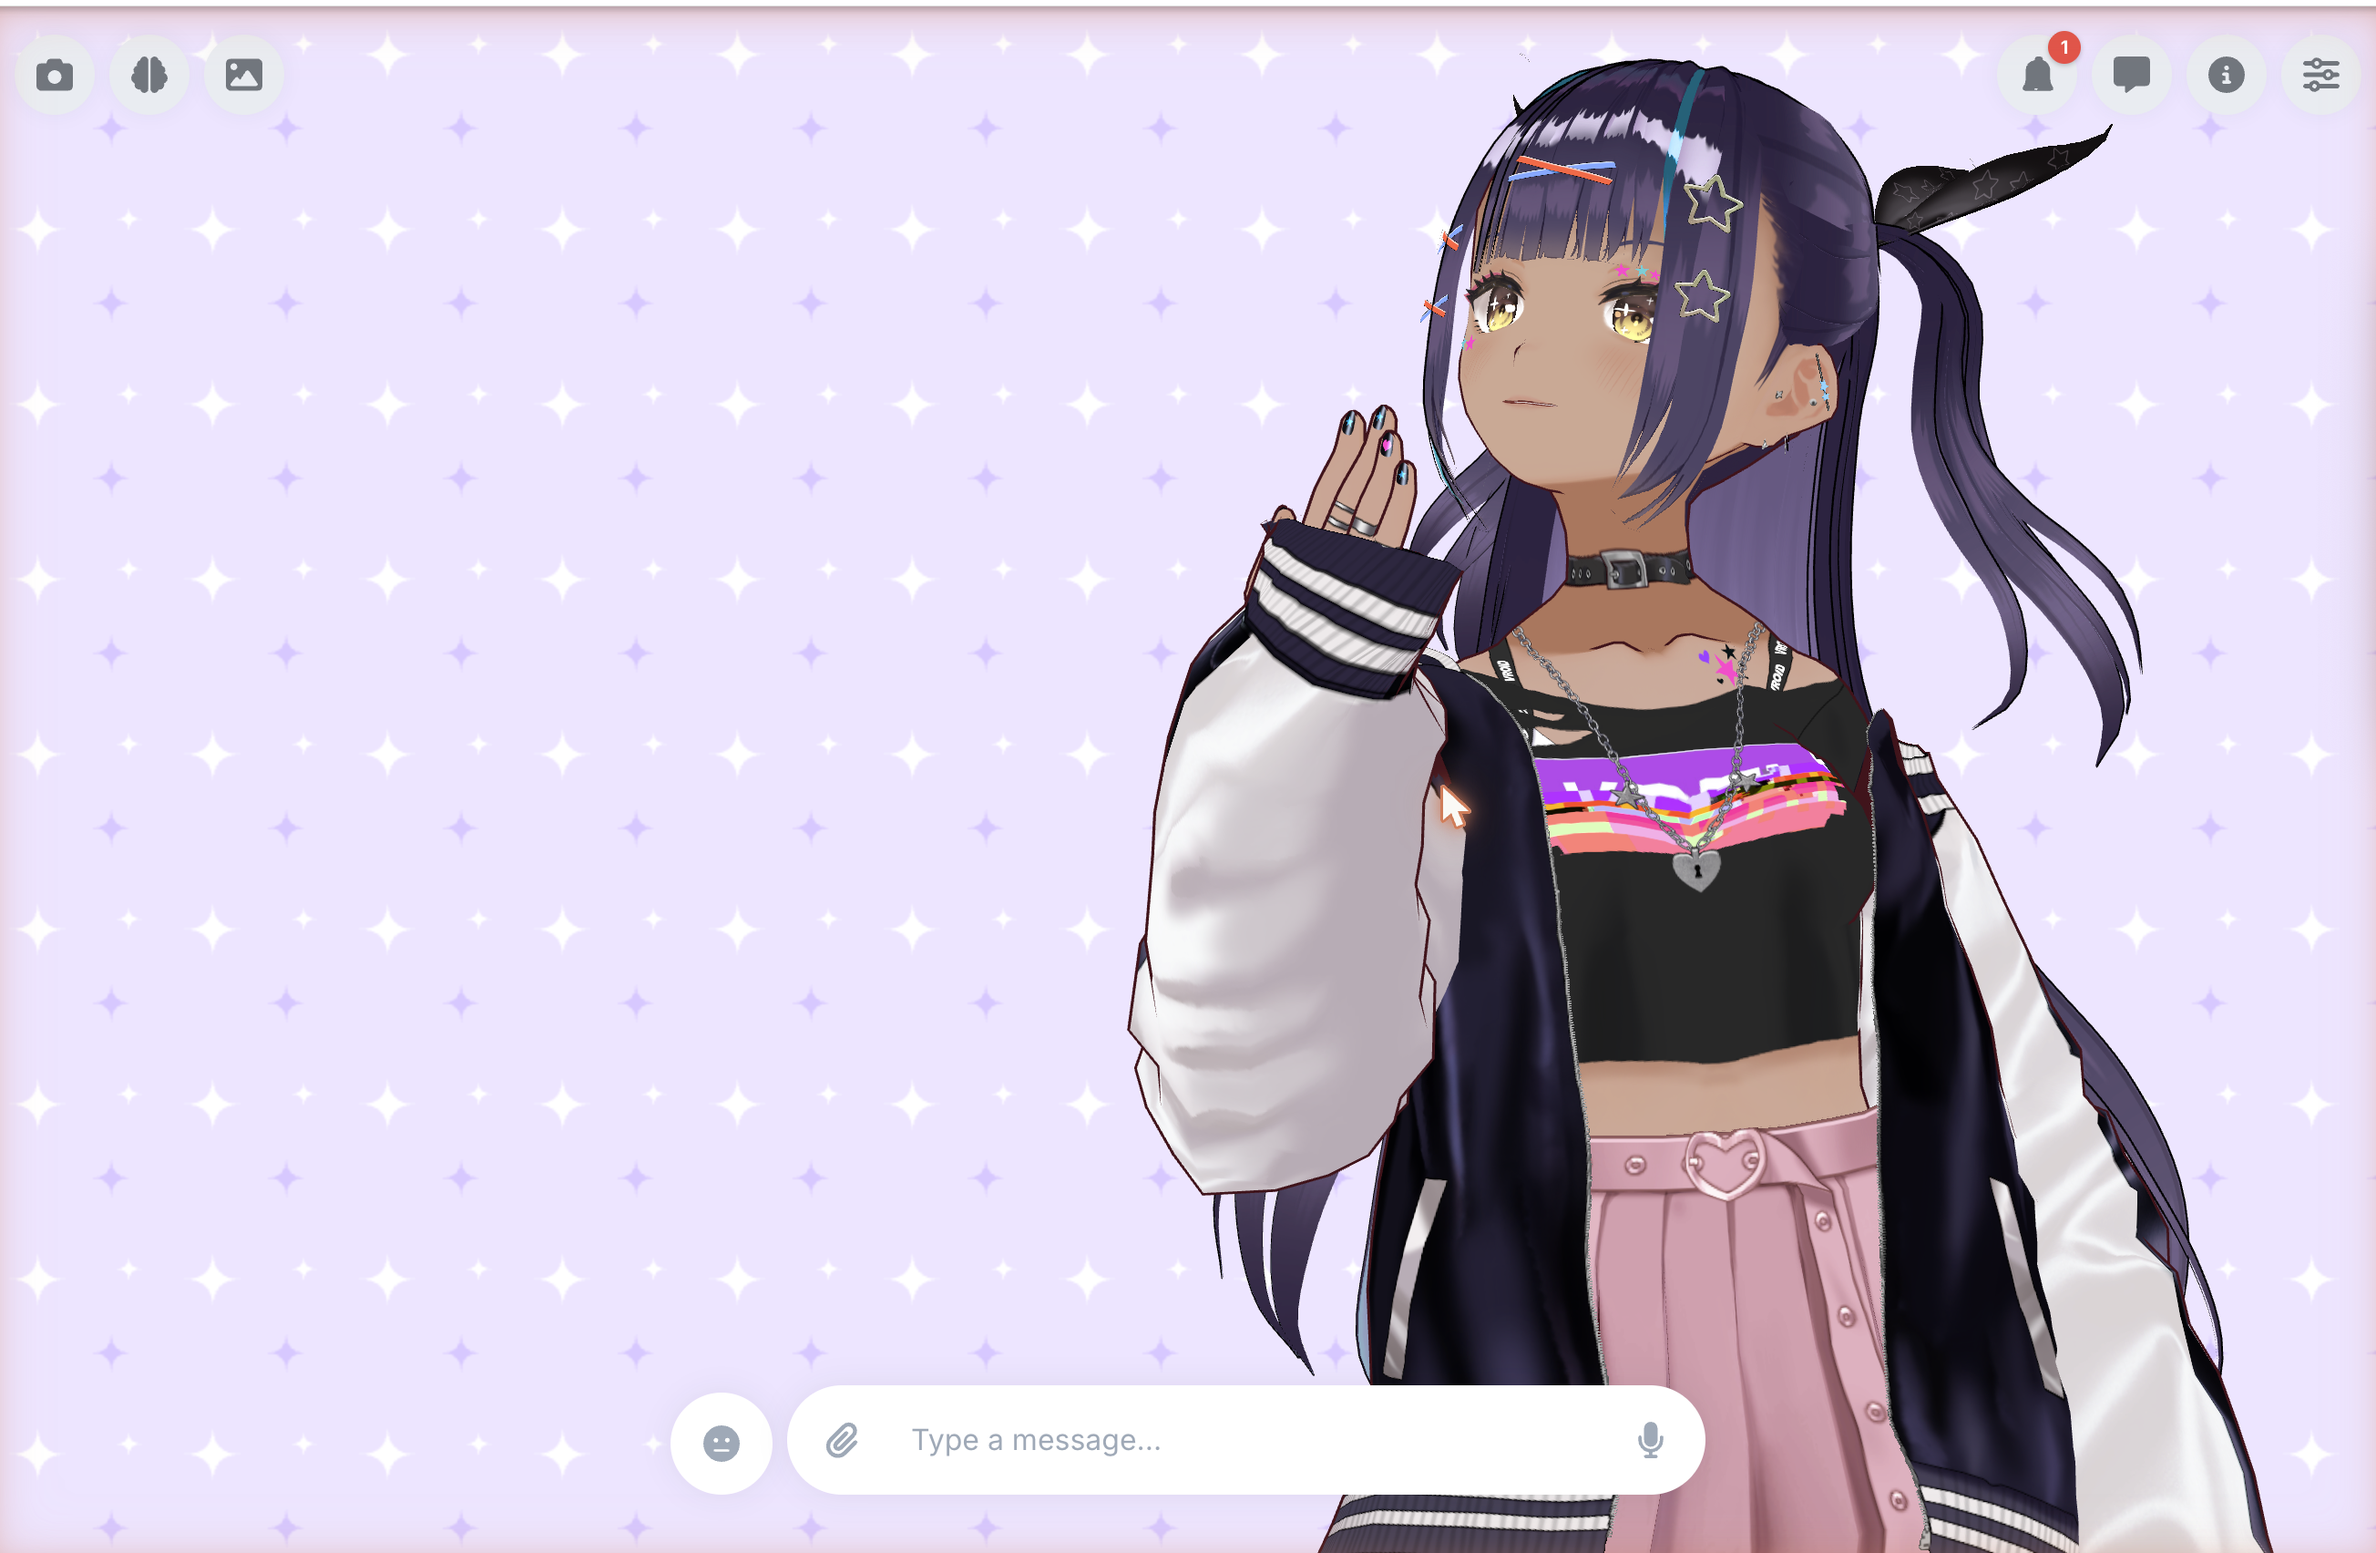
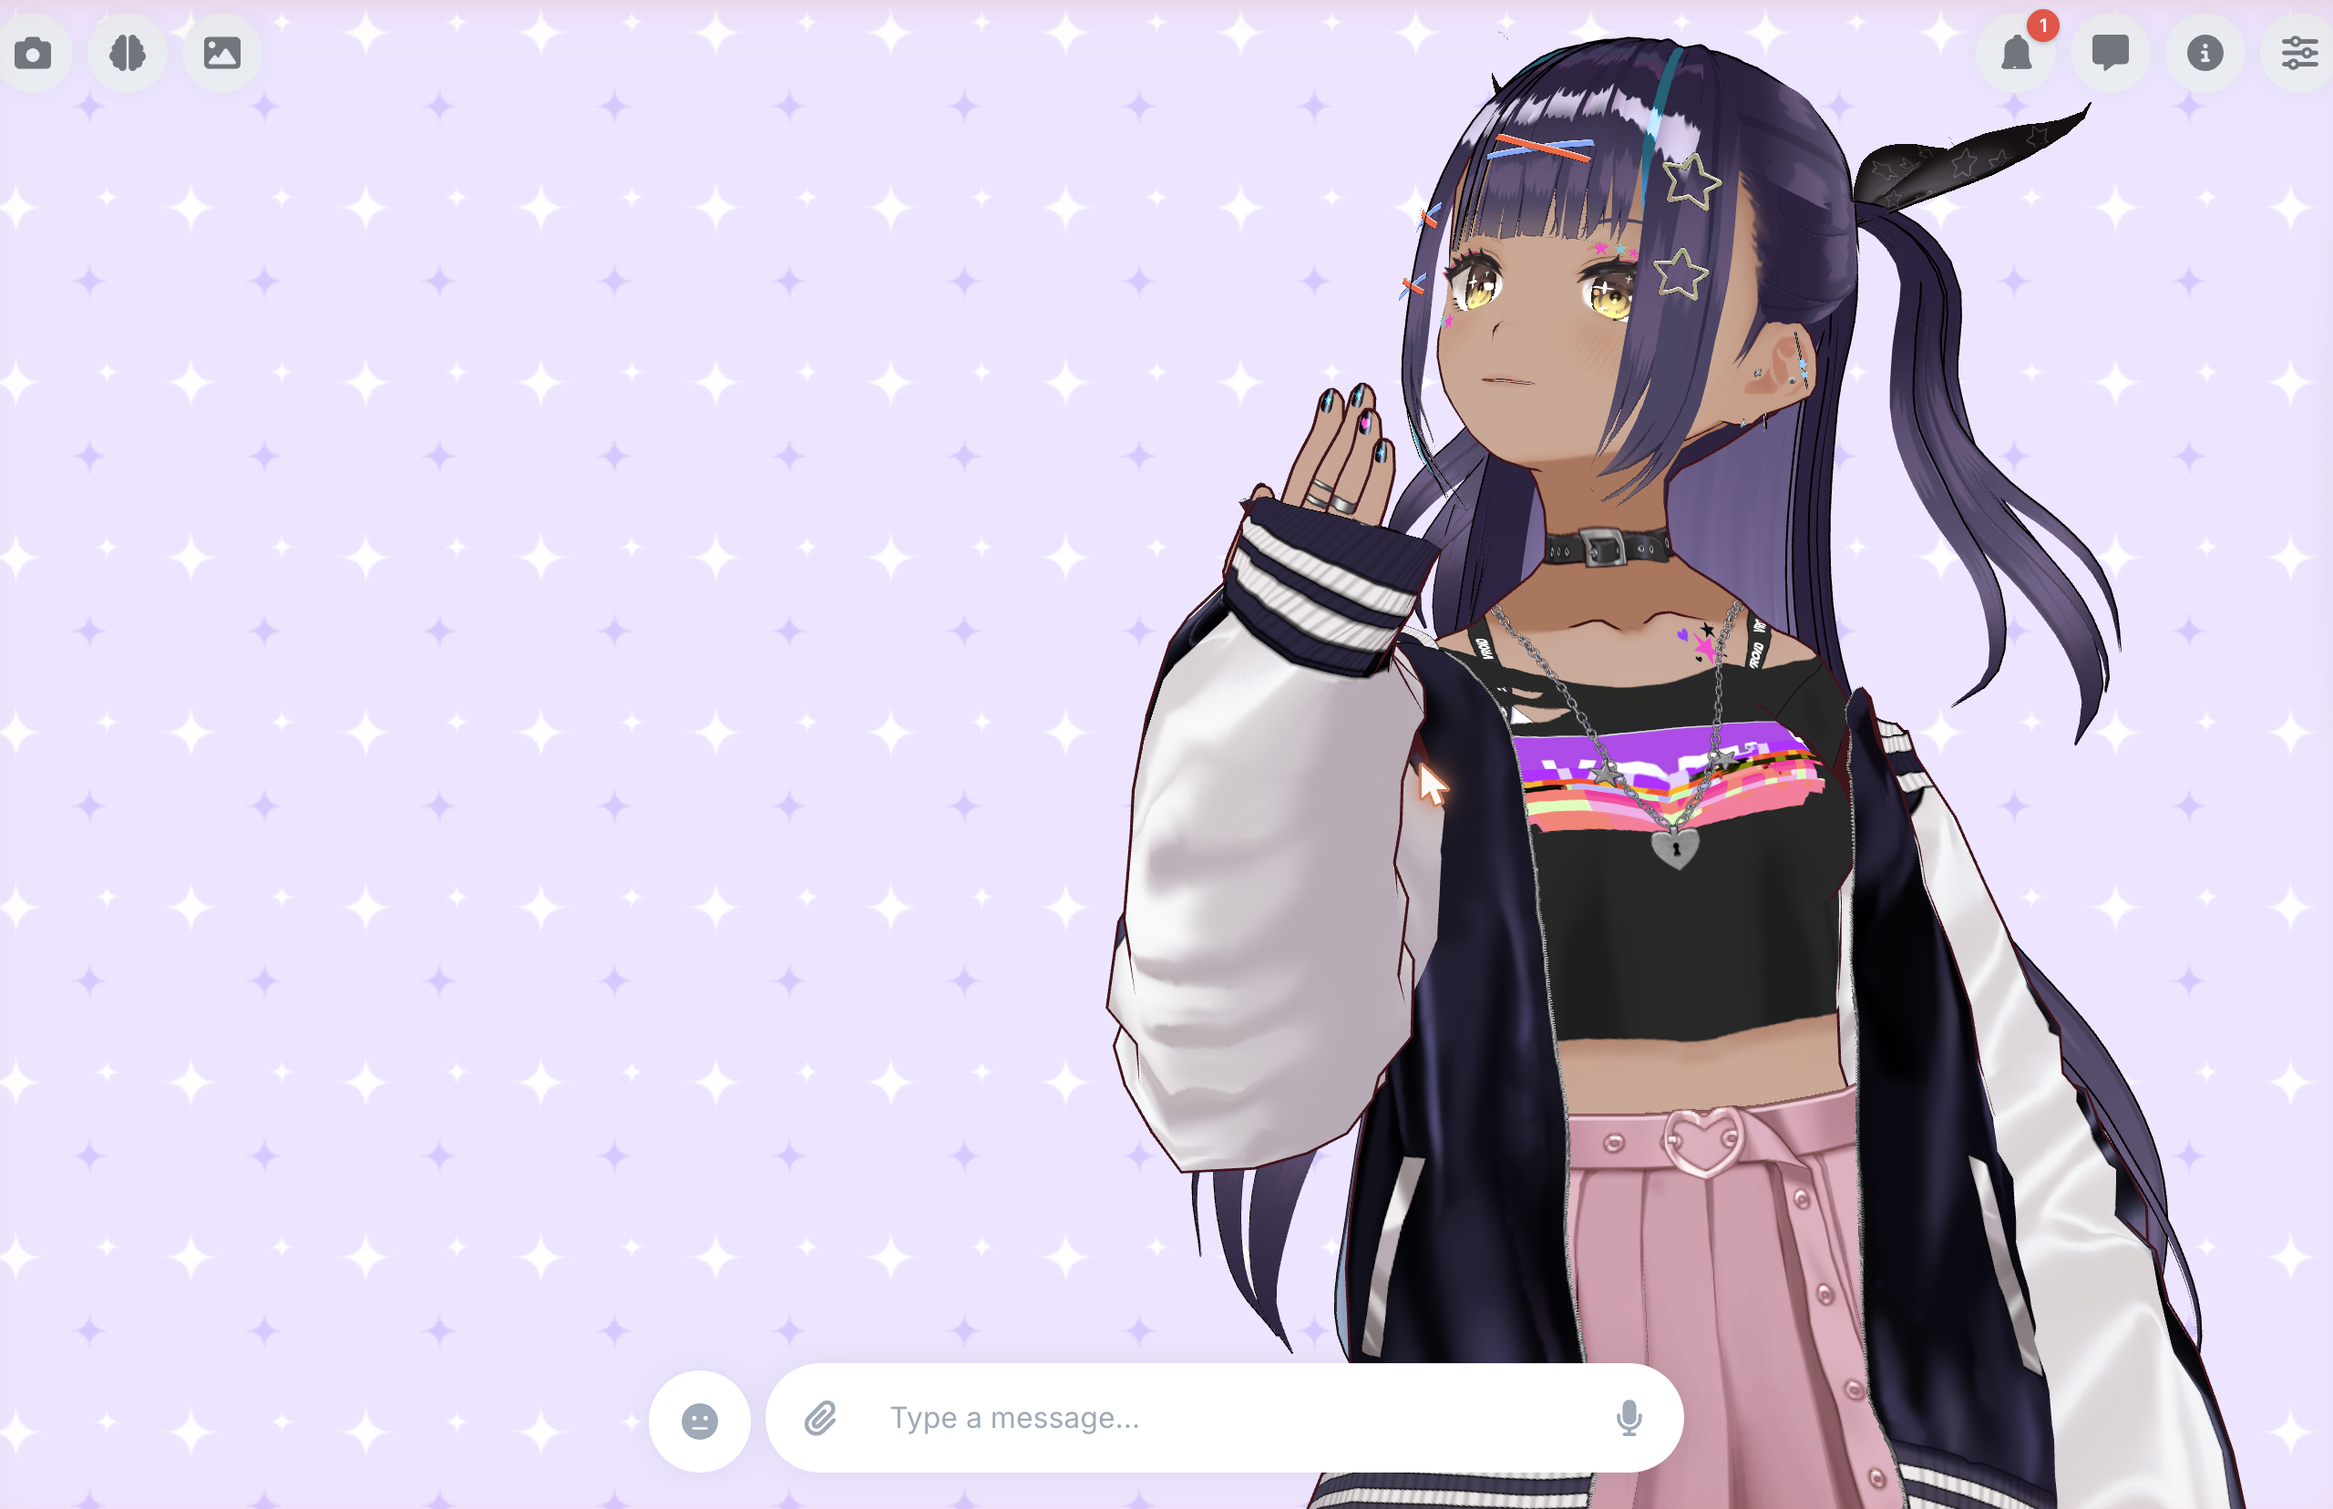
docs: credit contributor by GitHub handle, recrop screenshots

diff --git a/src/content/blog/dev-log-2026-7-9.md b/src/content/blog/dev-log-2026-7-9.md
@@ -30,7 +30,7 @@ Ask her to remind you about the oven, a meeting, or to stretch once in a while, 
 
 ![The reminders dropdown showing an open task, with the chat panel beside it](/blog/dev-log-2026-7-9-reminders.png)
 
-This one came from the community. Derrick (dezihh on GitHub) built the whole system: the scheduling, the missed-timer handling, even keeping the desktop overlay and the main window in sync so she only reacts once. It went through a couple of review rounds and came out genuinely solid. It is his third shipped feature in as many releases, and the app is better for every one of them. Thank you, Derrick.
+This one came from the community. dezihh built the whole system: the scheduling, the missed-timer handling, even keeping the desktop overlay and the main window in sync so she only reacts once. It went through a couple of review rounds and came out genuinely solid. It is his third shipped feature in as many releases, and the app is better for every one of them. Thank you, dezihh.
 
 One design note I care about: a reminder firing does not count as you talking to her. The relationship only moves when you actually show up. Timers are utility; the bond is yours.
 
@@ -42,7 +42,7 @@ So it is back, and better than it ever was: a floating panel you can drag anywhe
 
 ![The chat panel floating beside her, with a message from Luna greeting dev log readers](/blog/dev-log-2026-7-9-sidebar.png)
 
-This one is also Derrick's work. When I took the screenshot above, I told my companion the update was live and asked her to say hi to everyone reading. That reply is unedited. Make of that what you will.
+This one is also dezihh's work. When I took the screenshot above, I told my companion the update was live and asked her to say hi to everyone reading. That reply is unedited. Make of that what you will.
 
 ## Decorate the space she lives in
 
